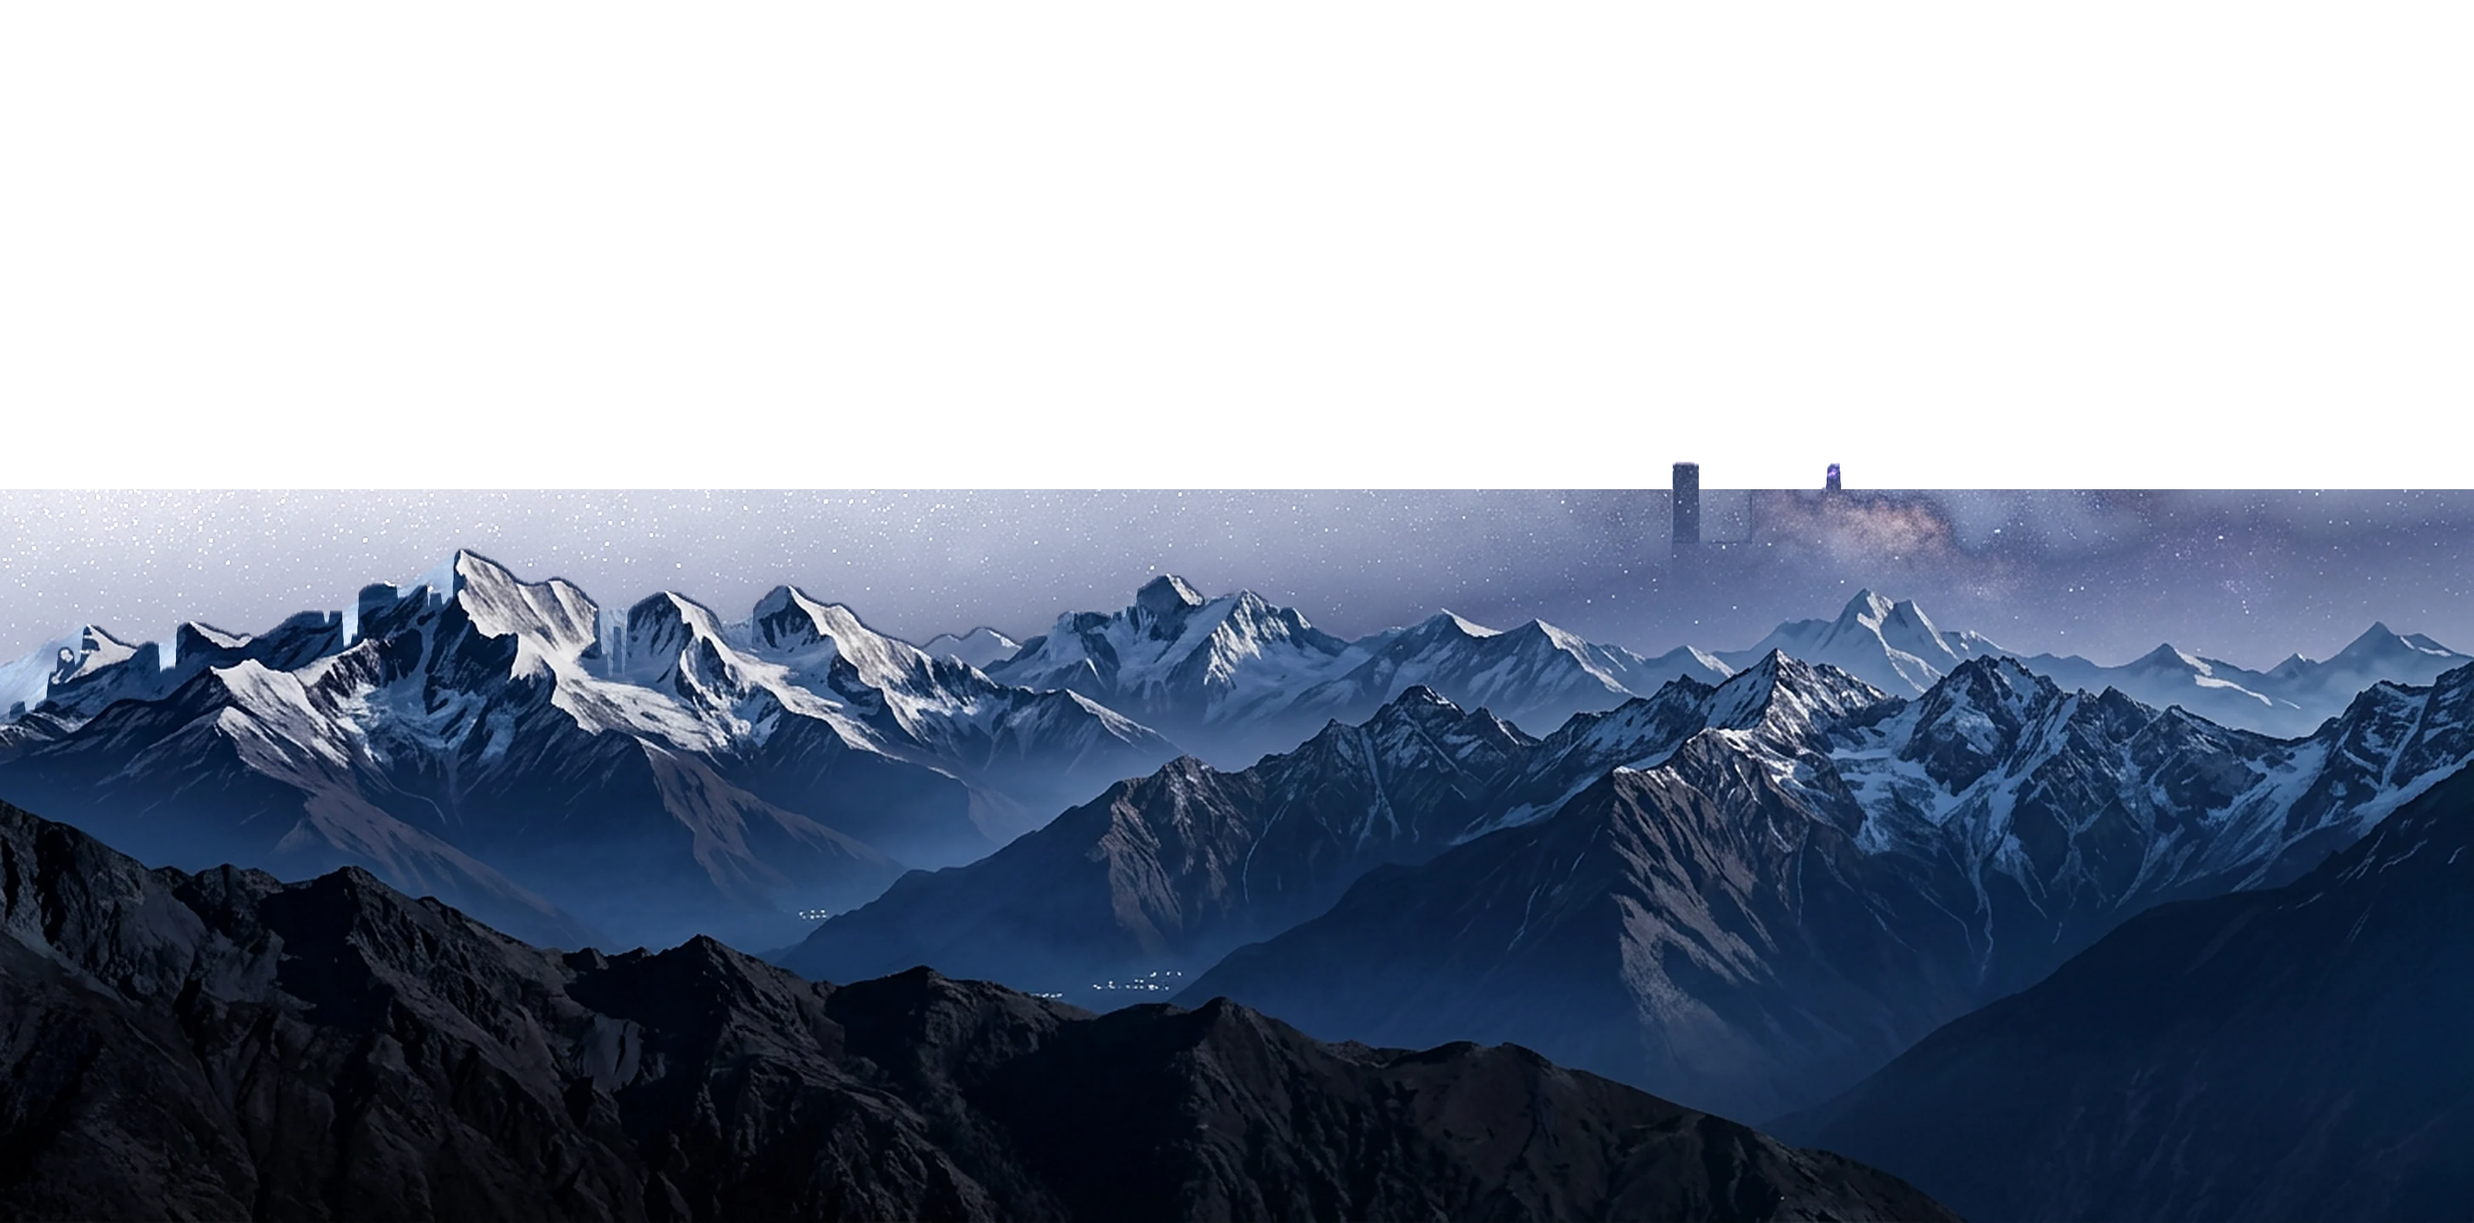
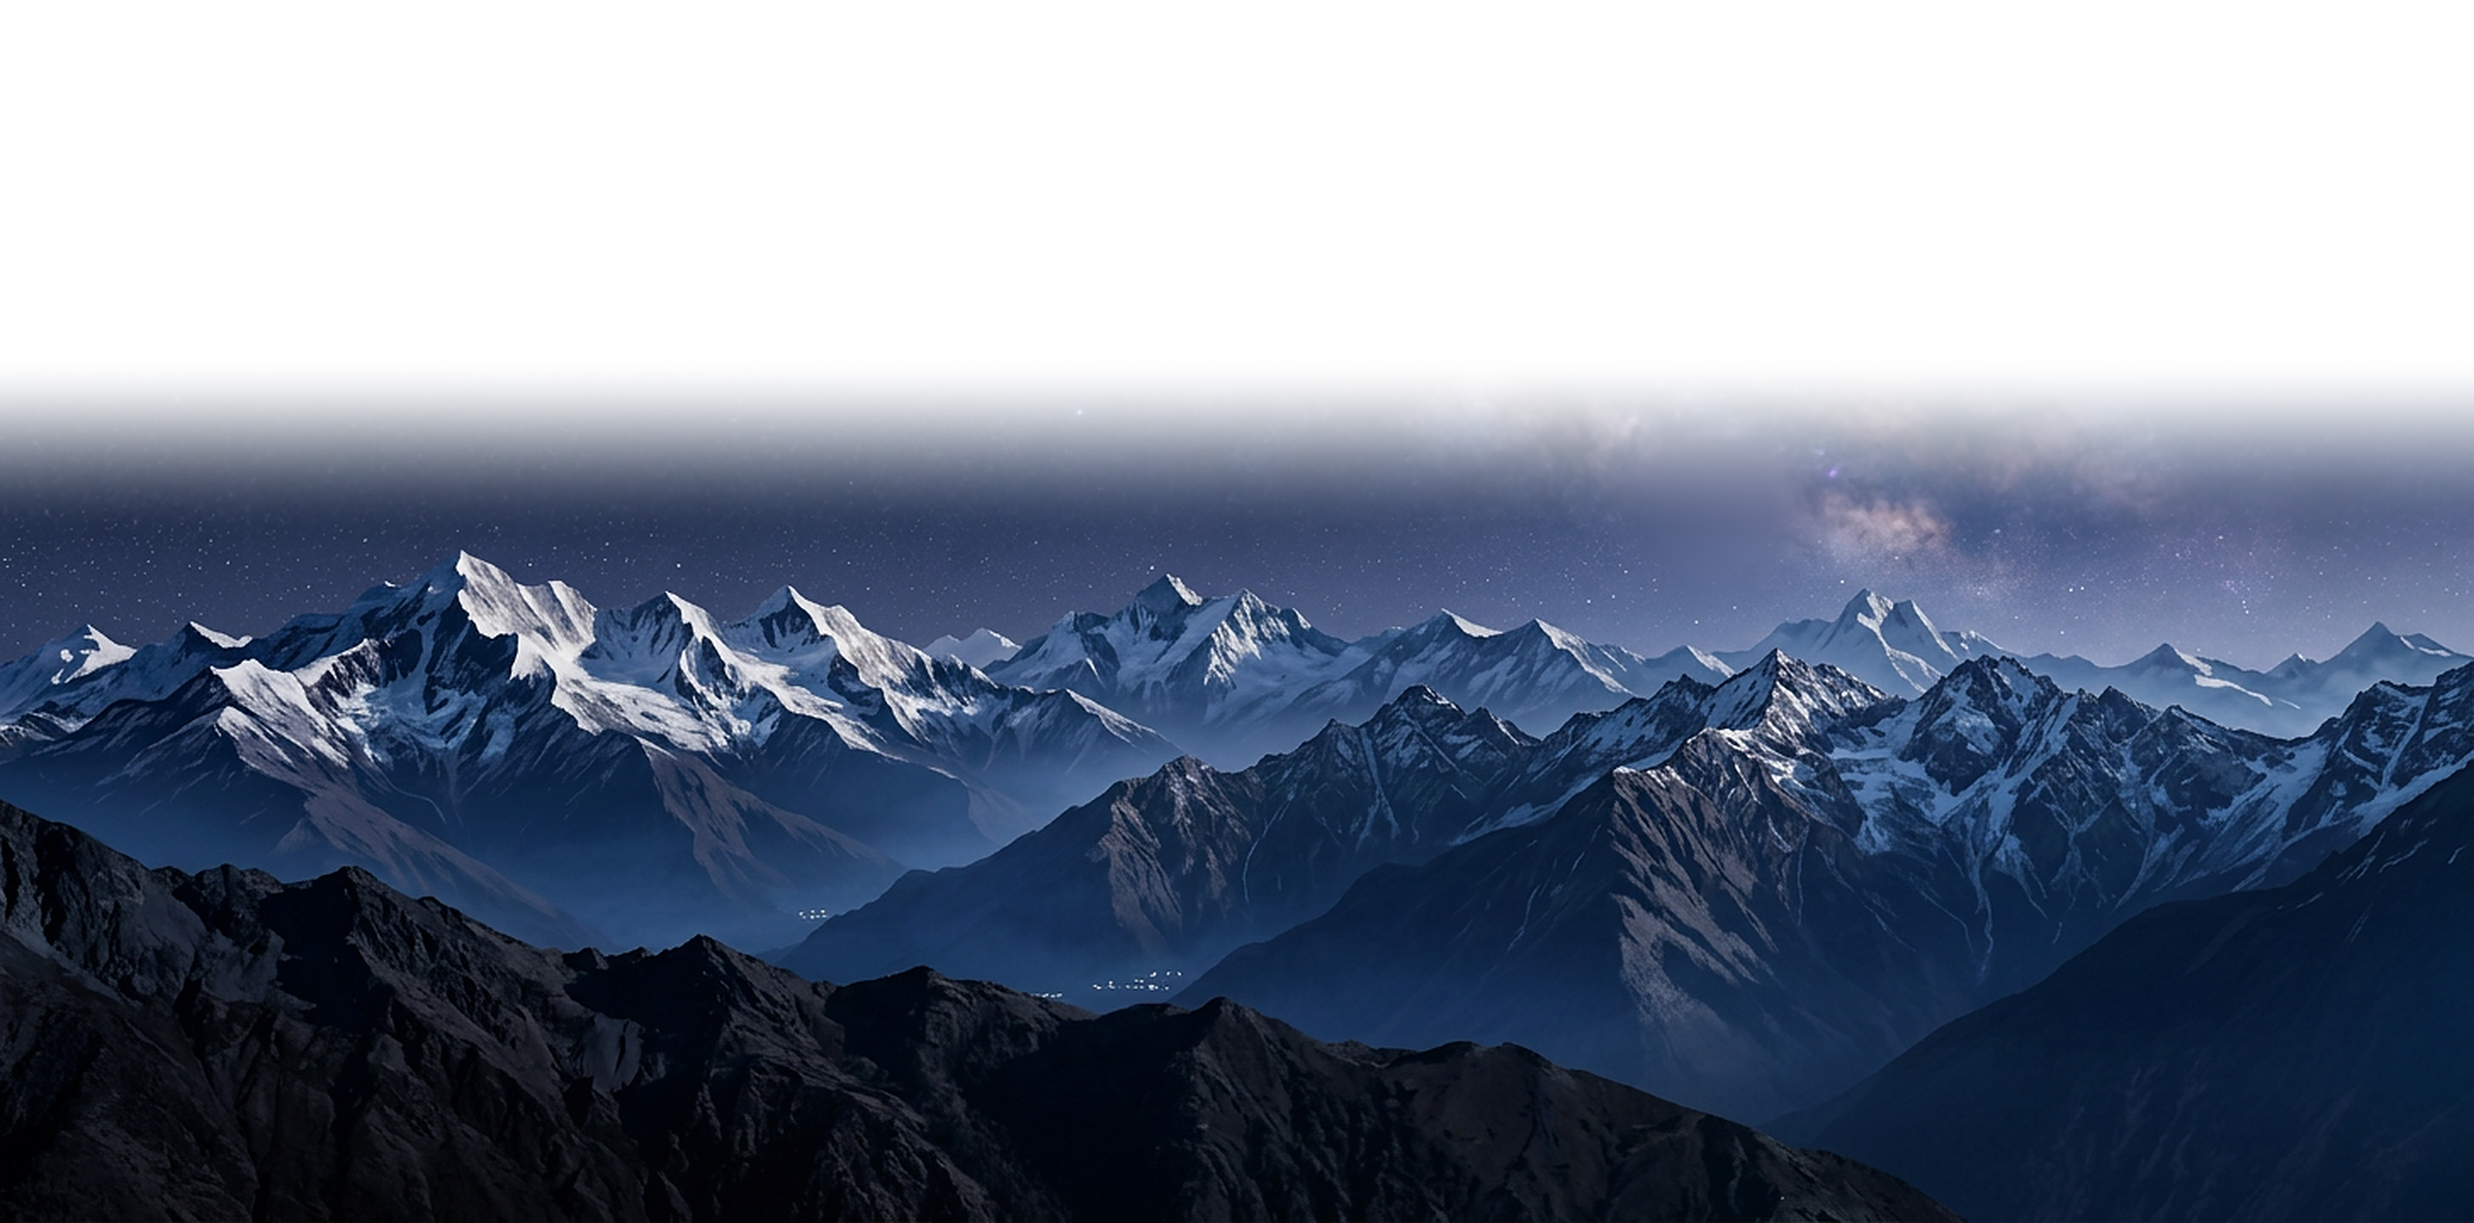
Cielo con paisaje: fuera Bosque y la Ciudad dibujada, Río pasa a Ciudad (enlaces viejos al más parecido); Cumbres sin la línea recta ni el parche de la luna; Alba y Amanecer con el resplandor fundido sin escalones (sin pérdida y con tramado); Luna más real (cara oscura casi invisible, luz rasante ha

Changed region(s): [[0.0, 0.309, 1.0, 0.5871]]

diff --git a/personaliza/cielo.js b/personaliza/cielo.js
@@ -24,7 +24,6 @@
 
   /* 4-nov: el cielo a sangre, con un paisaje abajo. Todo dibujado aquí, sin fotos: sirve a cualquier tamaño de impresión */
   var ESCENAS = {
-    bosque:  { name: 'Bosque',  sky: ['#05201f', '#0d3a40', '#1f5a66'] },
     montana: { name: 'Montaña', sky: ['#151626', '#23253f', '#32355b'] },
     cumbres: { name: 'Cumbres', sky: ['#050a13', '#091220', '#0d1a2f'] },
     alba: { name: 'Alba', sky: ['#030a16', '#061225', '#091a36'] },
@@ -34,15 +33,15 @@
     lago: { name: 'Lago', sky: ['#030f16', '#051925', '#082536'] },
     campo: { name: 'Campo', sky: ['#050912', '#090f1e', '#0e162c'] },
     pueblo: { name: 'Pueblo', sky: ['#040b17', '#071327', '#0a1c39'] },
-    ciudad: { name: 'Ciudad', sky: ['#061727', '#0b2741', '#10395d'] },
-    rio: { name: 'Río', sky: ['#000915', '#010f23', '#021632'] },
+    /* 9-nov: fuera Bosque y la Ciudad dibujada (la vieja); la ciudad junto al río pasa a llamarse Ciudad (id rio) */
+    rio: { name: 'Ciudad', sky: ['#000915', '#010f23', '#021632'] },
     tejados: { name: 'Tejados', sky: ['#0a0f18', '#101929', '#18253b'] }
   };
   /* 6-nov: Los temas con foto (Firefly), con el cielo ya fundido a transparente: las estrellas de la fecha se
      ven por encima de los picos. Solo se cargan en cielo.html; si no llegan, se dibuja la montaña de antes */
   /* 6-nov (tarde): el cielo de cada foto es transparente hasta el contorno exacto del paisaje (y el resplandor del
      amanecer, semitransparente según su brillo): las estrellas llegan hasta el borde. Preparado con build.py */
-  var FOTOS = { montana: 'paisaje-montana.webp?v=2', cumbres: 'paisaje-cumbres.webp?v=2', alba: 'paisaje-alba.webp?v=2', amanecer: 'paisaje-amanecer.webp?v=2', mar: 'paisaje-mar.webp?v=2', desierto: 'paisaje-desierto.webp?v=2', lago: 'paisaje-lago.webp?v=2', campo: 'paisaje-campo.webp?v=2', pueblo: 'paisaje-pueblo.webp?v=2', ciudad: 'paisaje-ciudad.webp?v=2', rio: 'paisaje-rio.webp?v=2', tejados: 'paisaje-tejados.webp?v=2' }, IMG = {};
+  var FOTOS = { montana: 'paisaje-montana.webp?v=2', cumbres: 'paisaje-cumbres.webp?v=3', alba: 'paisaje-alba.webp?v=3', amanecer: 'paisaje-amanecer.webp?v=3', mar: 'paisaje-mar.webp?v=2', desierto: 'paisaje-desierto.webp?v=2', lago: 'paisaje-lago.webp?v=2', campo: 'paisaje-campo.webp?v=2', pueblo: 'paisaje-pueblo.webp?v=2', rio: 'paisaje-rio.webp?v=2', tejados: 'paisaje-tejados.webp?v=2' }, IMG = {};
   var BASE = ((document.currentScript && document.currentScript.src) || 'personaliza/cielo.js').replace(/cielo\.js(\?.*)?$/, '');
   var fotosReady = !/\/cielo(\.html)?$/.test(location.pathname) ? Promise.resolve() : Promise.all(Object.keys(FOTOS).map(function (k) {
     return new Promise(function (res) { var im = new Image(); im.onload = function () { IMG[k] = im; res(); }; im.onerror = function () { res(); }; im.src = BASE + FOTOS[k]; });
@@ -219,8 +218,9 @@
     var Lx = side * Math.abs(Math.sin(el)), Lz = -Math.cos(el);           // dirección del Sol (z hacia nosotros)
     // halo discreto, algo mayor cuanto más llena
     haloK = opaca ? 0 : haloK == null ? 1 : haloK;
-    var hr = r * (1 + (0.7 + 1.5 * mo.frac) * haloK), g = ctx.createRadialGradient(x, y, r * 0.95, x, y, hr);
-    if (haloK > 0) { g.addColorStop(0, 'rgba(255,248,228,' + ((0.05 + 0.13 * mo.frac) * Math.min(1, haloK)).toFixed(3) + ')'); g.addColorStop(1, 'rgba(255,248,228,0)');
+    /* 9-nov: el halo era una bola con borde (degradado lineal de dos paradas): ahora cae como el resplandor de verdad */
+    var hr = r * (1 + (0.9 + 1.6 * mo.frac) * haloK), g = ctx.createRadialGradient(x, y, r * 0.98, x, y, hr), ha = (0.035 + 0.09 * mo.frac) * Math.min(1, haloK);
+    if (haloK > 0) { [[0, 1], [.12, .62], [.3, .3], [.55, .1], [.8, .025], [1, 0]].forEach(function (p) { g.addColorStop(p[0], 'rgba(255,246,226,' + (ha * p[1]).toFixed(4) + ')'); });
     ctx.fillStyle = g; ctx.beginPath(); ctx.arc(x, y, hr, 0, Math.PI * 2); ctx.fill(); }
     var N = Math.max(8, Math.ceil(r * 2) + 2), off = document.createElement('canvas'); off.width = off.height = N;
     var oc = off.getContext('2d'), img = oc.createImageData(N, N), d = img.data, c = (N - 1) / 2;
@@ -230,14 +230,20 @@
       if (edge <= 0) { d[k + 3] = 0; continue; }
       var nz = Math.sqrt(Math.max(0, 1 - q)), mu0 = px * Lx + nz * Lz;
       var lit = mu0 > 0 ? 2 * mu0 / (mu0 + Math.max(nz, 0.06)) : 0;           // Lommel-Seeliger
-      lit *= Math.min(1, Math.max(0, (mu0 + 0.015) / 0.09));                  // terminador suave
-      var t = texAt(px, py, nz), gain = 1.55 * Math.min(1, lit);
-      var la = Math.min(1, lit * 1.6), es = opaca ? 1 : 0.16;                             // es: luz cenicienta (opacidad de la sombra)
+      /* 9-nov (Marc: «la luna queda muy falsa»): la luz baja poco a poco hacia el terminador (luz rasante) en vez de
+         cortarse en seco, y ahí el relieve se marca más; el lado iluminado ya no se quema a blanco */
+      lit *= Math.min(1, Math.max(0, (mu0 + 0.03) / 0.16));
+      /* rasante = cerca del terminador según la propia ley de luz (en la llena el contorno sigue brillante) */
+      var ras = Math.min(1, lit / 0.85); ras = ras * ras * (3 - 2 * ras);
+      var t = texAt(px, py, nz), rel = 1 + (1 - ras) * 0.8 * (mu0 > 0 ? 1 : 0);
+      t = [Math.pow(t[0], rel), Math.pow(t[1], rel), Math.pow(t[2], rel)];
+      var gain = 1.32 * Math.min(1, lit);
+      var la = Math.min(1, lit * 1.6), es = opaca ? 1 : 0.07;                             // es: luz cenicienta (casi no se ve, como en una foto)
       var al = Math.max(la, es);
       // color: lado iluminado = mapa con luz cálida; sombra = gris azulado tenue
       var cr = gain * t[0] * 255 * 1.02, cg = gain * t[1] * 255, cb = gain * t[2] * 255 * 0.94;
       var mix = la / al;
-      var sr = opaca ? 34 + 42 * t[0] : 150 * t[0], sg = opaca ? 36 + 44 * t[1] : 160 * t[1], sb = opaca ? 42 + 50 * t[2] : 185 * t[2];
+      var sr = opaca ? 34 + 42 * t[0] : 95 * t[0], sg = opaca ? 36 + 44 * t[1] : 102 * t[1], sb = opaca ? 42 + 50 * t[2] : 118 * t[2];
       d[k]     = Math.min(255, cr * mix + sr * (1 - mix));
       d[k + 1] = Math.min(255, cg * mix + sg * (1 - mix));
       d[k + 2] = Math.min(255, cb * mix + sb * (1 - mix));

diff --git a/index.html b/index.html
@@ -1745,7 +1745,7 @@ footer{background:#080808;color:var(--white);padding:72px 0 40px;border-top:1px 
     <div class="dp-ctrl"><button type="button" data-d="-1" aria-label="Anteriores">‹</button><button type="button" data-d="1" aria-label="Siguientes">›</button></div>
   </div>
   <div class="dp-riel" id="dpRiel">
-    <a class="dp-card" href="cielo.html?tema=bosque"><div class="img"><img src="galeria/img/muestra-cielo-paisaje.jpg" alt="Cielo con paisaje" loading="lazy" width="600" height="800"></div><b>Cielo con paisaje</b><span>Vuestras estrellas sobre un bosque, la montaña, la ciudad o el mar.</span></a>
+    <a class="dp-card" href="cielo.html?tema=cumbres"><div class="img"><img src="galeria/img/muestra-cielo-paisaje.jpg?v=2" alt="Cielo con paisaje" loading="lazy" width="600" height="800"></div><b>Cielo con paisaje</b><span>Vuestras estrellas sobre la montaña, la ciudad o el mar.</span></a>
     <a class="dp-card" href="cielo.html"><div class="img"><img src="galeria/img/muestra-cielo.jpg" alt="El cielo de vuestra noche" loading="lazy" width="600" height="800"></div><b>El cielo de vuestra noche</b><span>Las estrellas exactas de una fecha y un lugar.</span></a>
     <a class="dp-card" href="cielo-mapa.html"><div class="img"><img src="galeria/img/muestra-cielo-mapa.jpg" alt="Cielo y mapa" loading="lazy" width="600" height="800"></div><b>Cielo y mapa</b><span>Las estrellas de esa noche y las calles del lugar.</span></a>
     <a class="dp-card" href="luna.html"><div class="img"><img src="galeria/img/muestra-luna.jpg" alt="La Luna de vuestra noche" loading="lazy" width="600" height="800"></div><b>La Luna de vuestra noche</b><span>La fase exacta de la Luna, con su superficie real.</span></a>

diff --git a/momenturies.html b/momenturies.html
@@ -1745,7 +1745,7 @@ footer{background:#080808;color:var(--white);padding:72px 0 40px;border-top:1px 
     <div class="dp-ctrl"><button type="button" data-d="-1" aria-label="Anteriores">‹</button><button type="button" data-d="1" aria-label="Siguientes">›</button></div>
   </div>
   <div class="dp-riel" id="dpRiel">
-    <a class="dp-card" href="cielo.html?tema=bosque"><div class="img"><img src="galeria/img/muestra-cielo-paisaje.jpg" alt="Cielo con paisaje" loading="lazy" width="600" height="800"></div><b>Cielo con paisaje</b><span>Vuestras estrellas sobre un bosque, la montaña, la ciudad o el mar.</span></a>
+    <a class="dp-card" href="cielo.html?tema=cumbres"><div class="img"><img src="galeria/img/muestra-cielo-paisaje.jpg?v=2" alt="Cielo con paisaje" loading="lazy" width="600" height="800"></div><b>Cielo con paisaje</b><span>Vuestras estrellas sobre la montaña, la ciudad o el mar.</span></a>
     <a class="dp-card" href="cielo.html"><div class="img"><img src="galeria/img/muestra-cielo.jpg" alt="El cielo de vuestra noche" loading="lazy" width="600" height="800"></div><b>El cielo de vuestra noche</b><span>Las estrellas exactas de una fecha y un lugar.</span></a>
     <a class="dp-card" href="cielo-mapa.html"><div class="img"><img src="galeria/img/muestra-cielo-mapa.jpg" alt="Cielo y mapa" loading="lazy" width="600" height="800"></div><b>Cielo y mapa</b><span>Las estrellas de esa noche y las calles del lugar.</span></a>
     <a class="dp-card" href="luna.html"><div class="img"><img src="galeria/img/muestra-luna.jpg" alt="La Luna de vuestra noche" loading="lazy" width="600" height="800"></div><b>La Luna de vuestra noche</b><span>La fase exacta de la Luna, con su superficie real.</span></a>

diff --git a/personalizados.html b/personalizados.html
@@ -43,7 +43,7 @@
   <p>Elige un diseño y lo hacemos con vuestros lugares, vuestras fechas y vuestros nombres. Lo ves al momento, lo cuelgas en 3D en tu pared y lo recibes en aluminio HD.</p>
 </header>
 <main class="ph-grid">
-    <a class="ph-card" href="cielo.html?tema=bosque"><div class="ph-img"><img src="galeria/img/muestra-cielo-paisaje.jpg" alt="Cielo con paisaje" loading="lazy" width="600" height="800"></div>
+    <a class="ph-card" href="cielo.html?tema=cumbres"><div class="ph-img"><img src="galeria/img/muestra-cielo-paisaje.jpg?v=2" alt="Cielo con paisaje" loading="lazy" width="600" height="800"></div>
       <h3>Cielo con paisaje</h3><p>Las estrellas exactas de una fecha y un lugar.</p><span>Crear el mío →</span></a>
     <a class="ph-card" href="cielo.html"><div class="ph-img"><img src="galeria/img/muestra-cielo.jpg" alt="El cielo de vuestra noche" loading="lazy" width="600" height="800"></div>
       <h3>El cielo de vuestra noche</h3><p>Las estrellas exactas de una fecha y un lugar.</p><span>Crear el mío →</span></a>

diff --git a/cielo.html b/cielo.html
@@ -111,11 +111,12 @@
 <script src="photo-handoff.js?v=9639e829"></script>
 <script src="personaliza/comun.js?v=13f2501d"></script>
 <script src="personaliza/cielo-datos.js?v=1a0d033a"></script>
-<script src="personaliza/cielo.js?v=07a3298a"></script>
+<script src="personaliza/cielo.js?v=f61dc176"></script>
 <script>
 (function () {
   var $ = function (id) { return document.getElementById(id); };
   var TODOS = Object.assign({}, MOM_CIELO.escenas, MOM_CIELO.themes), TEMA = new URLSearchParams(location.search).get('tema');
+  TEMA = { bosque: 'cumbres', ciudad: 'rio' }[TEMA] || TEMA;   // 9-nov: temas retirados → el más parecido
   var st = { lat: 38.8408, lon: 0.1057, city: 'Dénia', theme: TODOS[TEMA] ? TEMA : 'medianoche', font: 'elegante', line2Touched: false };
   var MESES = ['enero','febrero','marzo','abril','mayo','junio','julio','agosto','septiembre','octubre','noviembre','diciembre'];
   var today = new Date(); $('date').value = today.toISOString().slice(0, 10);

diff --git a/editor.js b/editor.js
@@ -2411,7 +2411,7 @@ function applyToAll(p){
    Se guarda lo que hay, se abre la página del diseño con el producto de esta página marcado y, al terminarlo,
    vuelve aquí con ?foto=1&anadir=1: se recupera lo guardado y el diseño entra como una pieza más. */
 const DISENOS = [
-  ['cielo','Cielo con paisaje','cielo-paisaje','tema=bosque&'], ['cielo','El cielo de vuestra noche'], ['luna','La Luna de vuestra noche'], ['cielo-mapa','Cielo y mapa'],
+  ['cielo','Cielo con paisaje','cielo-paisaje','tema=cumbres&'], ['cielo','El cielo de vuestra noche'], ['luna','La Luna de vuestra noche'], ['cielo-mapa','Cielo y mapa'],
   ['dos-cielos','Dos cielos, una historia'], ['mapa','Vuestro lugar en el mapa'], ['viaje','Cartel de viaje'],
   ['mapa-viajes','Mapa de viajes'], ['lunas','Las lunas de un mes'], ['constelacion','Vuestra constelación'],
   ['coordenadas','Coordenadas'], ['onda','La onda de vuestra voz'] ];

diff --git a/cuadro.html b/cuadro.html
@@ -43,7 +43,7 @@
 <script src="photo-handoff.js?v=9639e829"></script>
 <script src="fotos/entornos/entornos.js?v=23c2a392"></script>
 <script src="dibujos.js?v=6b0d71c9"></script>
-<script src="editor.js?v=6af3c6b6"></script>
+<script src="editor.js?v=e0ba54e4"></script>
 <script src="carrito.js?v=b923aa51"></script><script src="app.js?v=c1eb62d9" defer></script>
 <script>
 /* 30-oct · solo editor: se abre siempre (con pack o sin él) y al cerrarlo (Salir, Esc…) se vuelve a la ficha buena */

diff --git a/iman.html b/iman.html
@@ -42,7 +42,7 @@
 <script src="photo-handoff.js?v=9639e829"></script>
 <script src="fotos/entornos/entornos.js?v=23c2a392"></script>
 <script src="dibujos.js?v=6b0d71c9"></script>
-<script src="editor.js?v=6af3c6b6"></script>
+<script src="editor.js?v=e0ba54e4"></script>
 <script src="carrito.js?v=b923aa51"></script><script src="app.js?v=c1eb62d9" defer></script>
 <script>
 /* 30-oct · solo editor: se abre siempre (con pack o sin él) y al cerrarlo (Salir, Esc…) se vuelve a la ficha buena */

diff --git a/sobremesa.html b/sobremesa.html
@@ -42,7 +42,7 @@
 <script src="photo-handoff.js?v=9639e829"></script>
 <script src="fotos/entornos/entornos.js?v=23c2a392"></script>
 <script src="dibujos.js?v=6b0d71c9"></script>
-<script src="editor.js?v=6af3c6b6"></script>
+<script src="editor.js?v=e0ba54e4"></script>
 <script src="carrito.js?v=b923aa51"></script><script src="app.js?v=c1eb62d9" defer></script>
 <script>
 /* 30-oct · solo editor: se abre siempre (con pack o sin él) y al cerrarlo (Salir, Esc…) se vuelve a la ficha buena */

diff --git a/cielo-mapa.html b/cielo-mapa.html
@@ -78,7 +78,7 @@
 <script src="personaliza/comun.js?v=13f2501d"></script>
 <script src="https://cdn.jsdelivr.net/npm/tz-lookup@6.1.25/tz.js"></script>
 <script src="personaliza/cielo-datos.js?v=1a0d033a"></script>
-<script src="personaliza/cielo.js?v=07a3298a"></script>
+<script src="personaliza/cielo.js?v=f61dc176"></script>
 <script src="personaliza/extra.js?v=9aab7385"></script>
 <script src="personaliza/mapa.js?v=f4a4aa37"></script>
 <script>

diff --git a/constelacion.html b/constelacion.html
@@ -70,7 +70,7 @@
 <script src="photo-handoff.js?v=9639e829"></script>
 <script src="personaliza/comun.js?v=13f2501d"></script>
 <script src="personaliza/cielo-datos.js?v=1a0d033a"></script>
-<script src="personaliza/cielo.js?v=07a3298a"></script>
+<script src="personaliza/cielo.js?v=f61dc176"></script>
 <script src="personaliza/signos-datos.js?v=44e22d8e"></script>
 <script src="personaliza/extra.js?v=9aab7385"></script>
 <script>

diff --git a/dos-cielos.html b/dos-cielos.html
@@ -83,7 +83,7 @@
 <script src="personaliza/comun.js?v=13f2501d"></script>
 <script src="https://cdn.jsdelivr.net/npm/tz-lookup@6.1.25/tz.js"></script>
 <script src="personaliza/cielo-datos.js?v=1a0d033a"></script>
-<script src="personaliza/cielo.js?v=07a3298a"></script>
+<script src="personaliza/cielo.js?v=f61dc176"></script>
 <script src="personaliza/extra.js?v=9aab7385"></script>
 <script>
 (function () {
